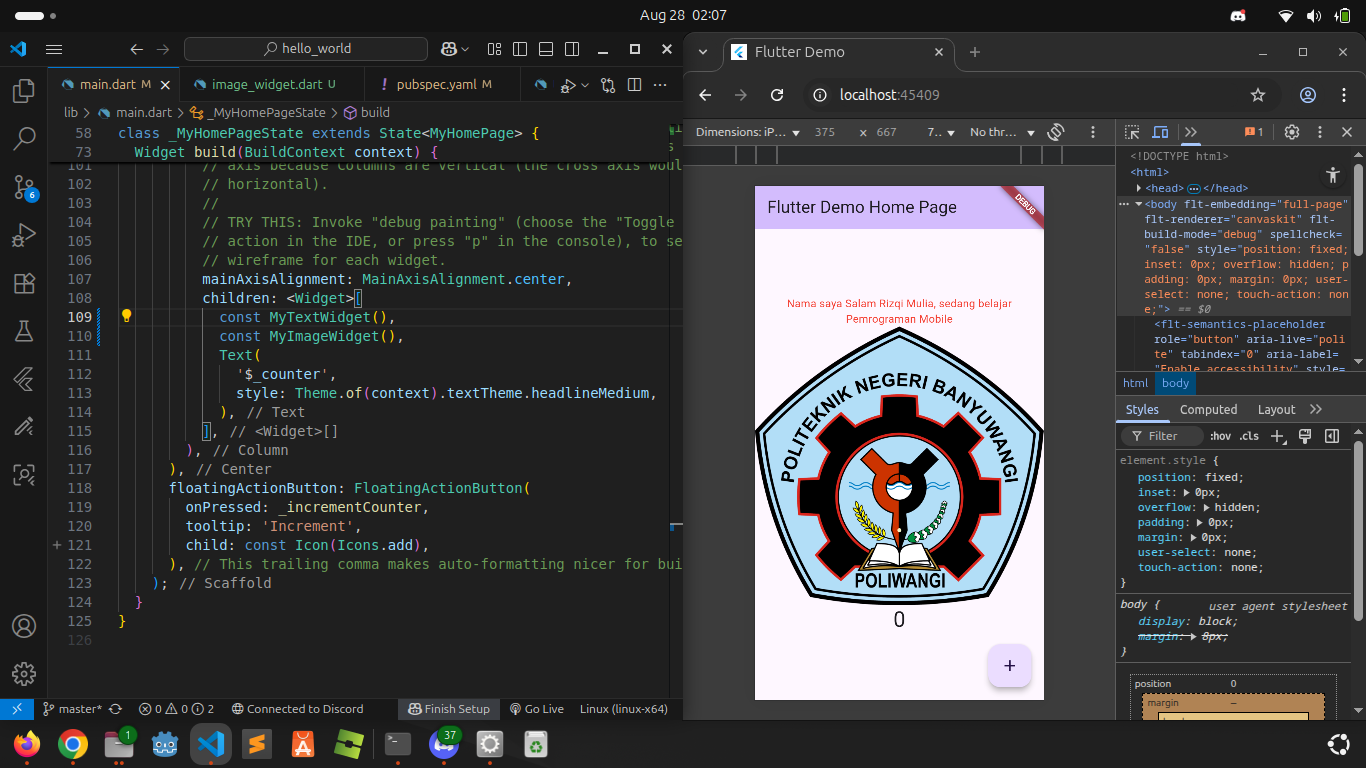
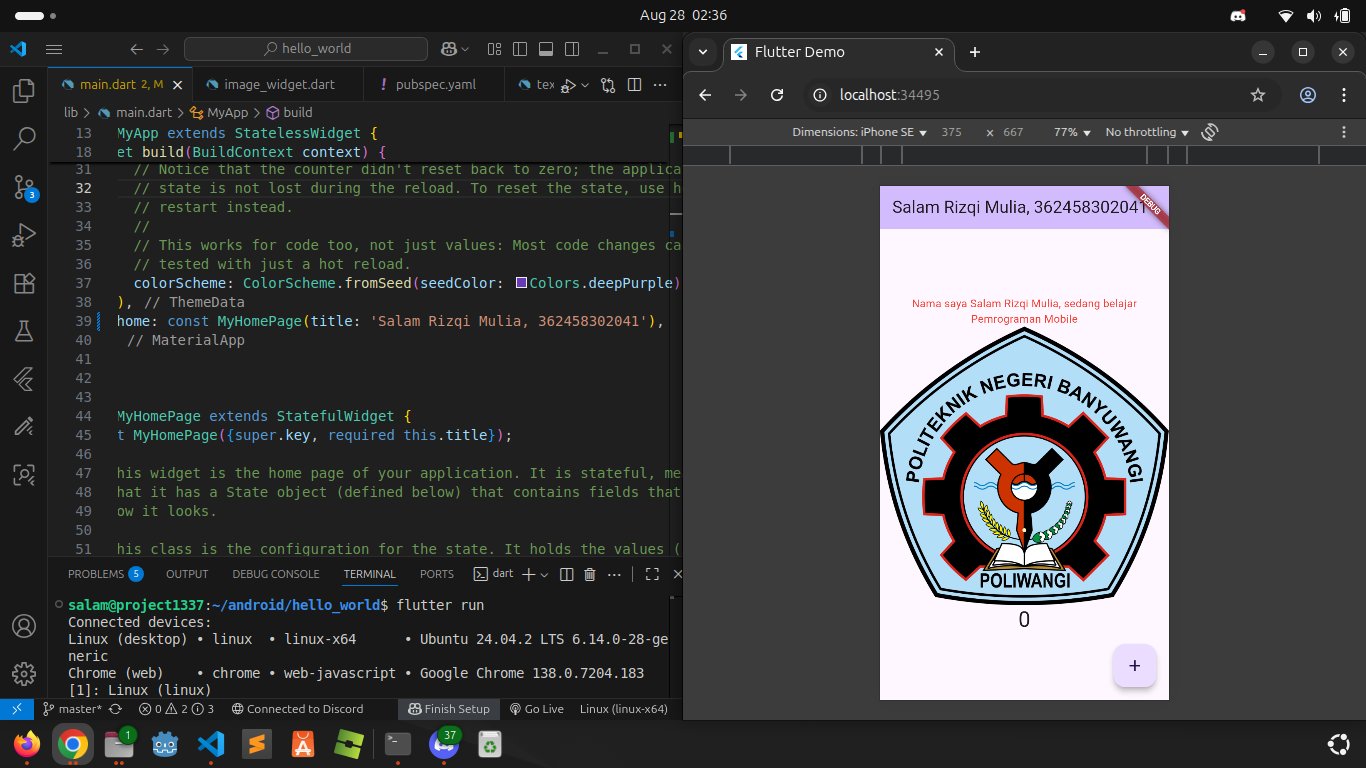
README.md, images, main.dart, fab_widget.dart, loading_cupertino.dart

diff --git a/lib/main.dart b/lib/main.dart
@@ -1,125 +1,62 @@
 import 'package:flutter/material.dart';
-import 'package:hello_world/basic_widgets/image_widget.dart';
-import 'package:hello_world/basic_widgets/text_widget.dart';
 
 void main() {
   runApp(const MyApp());
 }
 
 class MyApp extends StatelessWidget {
-  const MyApp({super.key});
+  const MyApp({Key? key}) : super(key: key);
 
-  // This widget is the root of your application.
   @override
   Widget build(BuildContext context) {
-    return MaterialApp(
-      title: 'Flutter Demo',
-      theme: ThemeData(
-        // This is the theme of your application.
-        //
-        // TRY THIS: Try running your application with "flutter run". You'll see
-        // the application has a purple toolbar. Then, without quitting the app,
-        // try changing the seedColor in the colorScheme below to Colors.green
-        // and then invoke "hot reload" (save your changes or press the "hot
-        // reload" button in a Flutter-supported IDE, or press "r" if you used
-        // the command line to start the app).
-        //
-        // Notice that the counter didn't reset back to zero; the application
-        // state is not lost during the reload. To reset the state, use hot
-        // restart instead.
-        //
-        // This works for code too, not just values: Most code changes can be
-        // tested with just a hot reload.
-        colorScheme: ColorScheme.fromSeed(seedColor: Colors.deepPurple),
+    return const MaterialApp(
+      home: Scaffold(
+        body: MyLayout(),
       ),
-      home: const MyHomePage(title: 'Flutter Demo Home Page'),
     );
   }
 }
 
-class MyHomePage extends StatefulWidget {
-  const MyHomePage({super.key, required this.title});
-
-  // This widget is the home page of your application. It is stateful, meaning
-  // that it has a State object (defined below) that contains fields that affect
-  // how it looks.
-
-  // This class is the configuration for the state. It holds the values (in this
-  // case the title) provided by the parent (in this case the App widget) and
-  // used by the build method of the State. Fields in a Widget subclass are
-  // always marked "final".
-
-  final String title;
-
-  @override
-  State<MyHomePage> createState() => _MyHomePageState();
-}
-
-class _MyHomePageState extends State<MyHomePage> {
-  int _counter = 0;
-
-  void _incrementCounter() {
-    setState(() {
-      // This call to setState tells the Flutter framework that something has
-      // changed in this State, which causes it to rerun the build method below
-      // so that the display can reflect the updated values. If we changed
-      // _counter without calling setState(), then the build method would not be
-      // called again, and so nothing would appear to happen.
-      _counter++;
-    });
-  }
+class MyLayout extends StatelessWidget {
+  const MyLayout({Key? key}) : super(key: key);
 
   @override
   Widget build(BuildContext context) {
-    // This method is rerun every time setState is called, for instance as done
-    // by the _incrementCounter method above.
-    //
-    // The Flutter framework has been optimized to make rerunning build methods
-    // fast, so that you can just rebuild anything that needs updating rather
-    // than having to individually change instances of widgets.
-    return Scaffold(
-      appBar: AppBar(
-        // TRY THIS: Try changing the color here to a specific color (to
-        // Colors.amber, perhaps?) and trigger a hot reload to see the AppBar
-        // change color while the other colors stay the same.
-        backgroundColor: Theme.of(context).colorScheme.inversePrimary,
-        // Here we take the value from the MyHomePage object that was created by
-        // the App.build method, and use it to set our appbar title.
-        title: Text(widget.title),
+    return Padding(
+      padding: const EdgeInsets.all(8.0),
+      child: ElevatedButton(
+        child: const Text('Show alert'),
+        onPressed: () {
+          showAlertDialog(context);
+        },
       ),
-      body: Center(
-        // Center is a layout widget. It takes a single child and positions it
-        // in the middle of the parent.
-        child: Column(
-          // Column is also a layout widget. It takes a list of children and
-          // arranges them vertically. By default, it sizes itself to fit its
-          // children horizontally, and tries to be as tall as its parent.
-          //
-          // Column has various properties to control how it sizes itself and
-          // how it positions its children. Here we use mainAxisAlignment to
-          // center the children vertically; the main axis here is the vertical
-          // axis because Columns are vertical (the cross axis would be
-          // horizontal).
-          //
-          // TRY THIS: Invoke "debug painting" (choose the "Toggle Debug Paint"
-          // action in the IDE, or press "p" in the console), to see the
-          // wireframe for each widget.
-          mainAxisAlignment: MainAxisAlignment.center,
-          children: <Widget>[
-            const MyTextWidget(),
-            const MyImageWidget(),
-            Text(
-              '$_counter',
-              style: Theme.of(context).textTheme.headlineMedium,
-            ),
-          ],
-        ),
-      ),
-      floatingActionButton: FloatingActionButton(
-        onPressed: _incrementCounter,
-        tooltip: 'Increment',
-        child: const Icon(Icons.add),
-      ), // This trailing comma makes auto-formatting nicer for build methods.
     );
   }
+}
+
+showAlertDialog(BuildContext context) {
+  // set up the button
+  Widget okButton = TextButton(
+    child: const Text("OK"),
+    onPressed: () {
+      Navigator.pop(context);
+    },
+  );
+
+  // set up the AlertDialog
+  AlertDialog alert = AlertDialog(
+    title: const Text("My title"),
+    content: const Text("This is my message."),
+    actions: [
+      okButton,
+    ],
+  );
+
+  // show the dialog
+  showDialog(
+    context: context,
+    builder: (BuildContext context) {
+      return alert;
+    },
+  );
 }

diff --git a/lib/basic_widgets/loading_cupertino.dart b/lib/basic_widgets/loading_cupertino.dart
@@ -1,0 +1,26 @@
+import 'package:flutter/material.dart';
+import 'package:flutter/cupertino.dart';
+
+class LoadingCupertino extends StatelessWidget {
+  const LoadingCupertino({super.key});
+
+  @override
+  Widget build(BuildContext context) {
+    return MaterialApp(
+      home: Container(
+        margin: const EdgeInsets.only(top: 30),
+        color: Colors.white,
+        child: Column(
+          children: <Widget>[
+            CupertinoButton(
+              child: const Text("Contoh button"),
+              onPressed: () {
+              },
+            ),
+            const CupertinoActivityIndicator(),
+          ],
+        ),
+      ),
+    );
+  }
+}

diff --git a/lib/basic_widgets/fab_widget.dart b/lib/basic_widgets/fab_widget.dart
@@ -1,0 +1,21 @@
+import 'package:flutter/material.dart';
+
+class FabWidget extends StatelessWidget {
+  const FabWidget({super.key});
+
+  @override
+  Widget build(BuildContext context) {
+    return MaterialApp(
+      home: Scaffold(
+        floatingActionButton: FloatingActionButton(
+          onPressed: () {
+            // Add your onPressed code here!
+            debugPrint("FAB ditekan!");
+          },
+          child: const Icon(Icons.thumb_up),
+          backgroundColor: Colors.pink,
+        ),
+      ),
+    );
+  }
+}

diff --git a/README.md b/README.md
@@ -9,3 +9,15 @@ Tangkapan layar pada Praktikum 3, hasil dari menjakankan project hello_world
 ### Praktikum 4, Menerapkan Widget Dasar
 Tangkapan layar pada Praktikum 4, hasil dari menjalankan project hello_world, setelah ditambahkan dengan Widget Text dan Image
 ![Screenshot hello_world](images/02.png)
+
+### Praktikum 5, Menerapkan Widget Material Design dan iOS Cuppertino
+**Langkah 2: Floating Action Button (FAB)**. Tangkapan layar dari langkah 2, *Floating Action Button* sebagai tombol yang terdapat beberapa macam jenis pada flutter yaitu  ButtonBar, DropdownButton, TextButton, FloatingActionButton, IconButton, OutlineButton, PopupMenuButton, dan ElevatedButton..
+![Screenshot hello_world](images/04.png)
+
+**Langkah 3: Scaffold Widget**. Tangkapan layar dari Langkah 3, Scaffold Widget digunakan untuk mengatur tata letak sesuai dengan material design
+![Screenshot hello_world](images/03.png)
+
+**Langkah 4: Dialog Widget**. Dialog widget pada flutter memiliki dua jenis dialog yaitu *AlertDialog* dan *SimpleDialog*
+![Screenshot hello_world](images/05.png)
+Berikut tangkapan layar yang menampilkan *Alert Dialog*
+![Screenshot hello_world](images/06.png)
